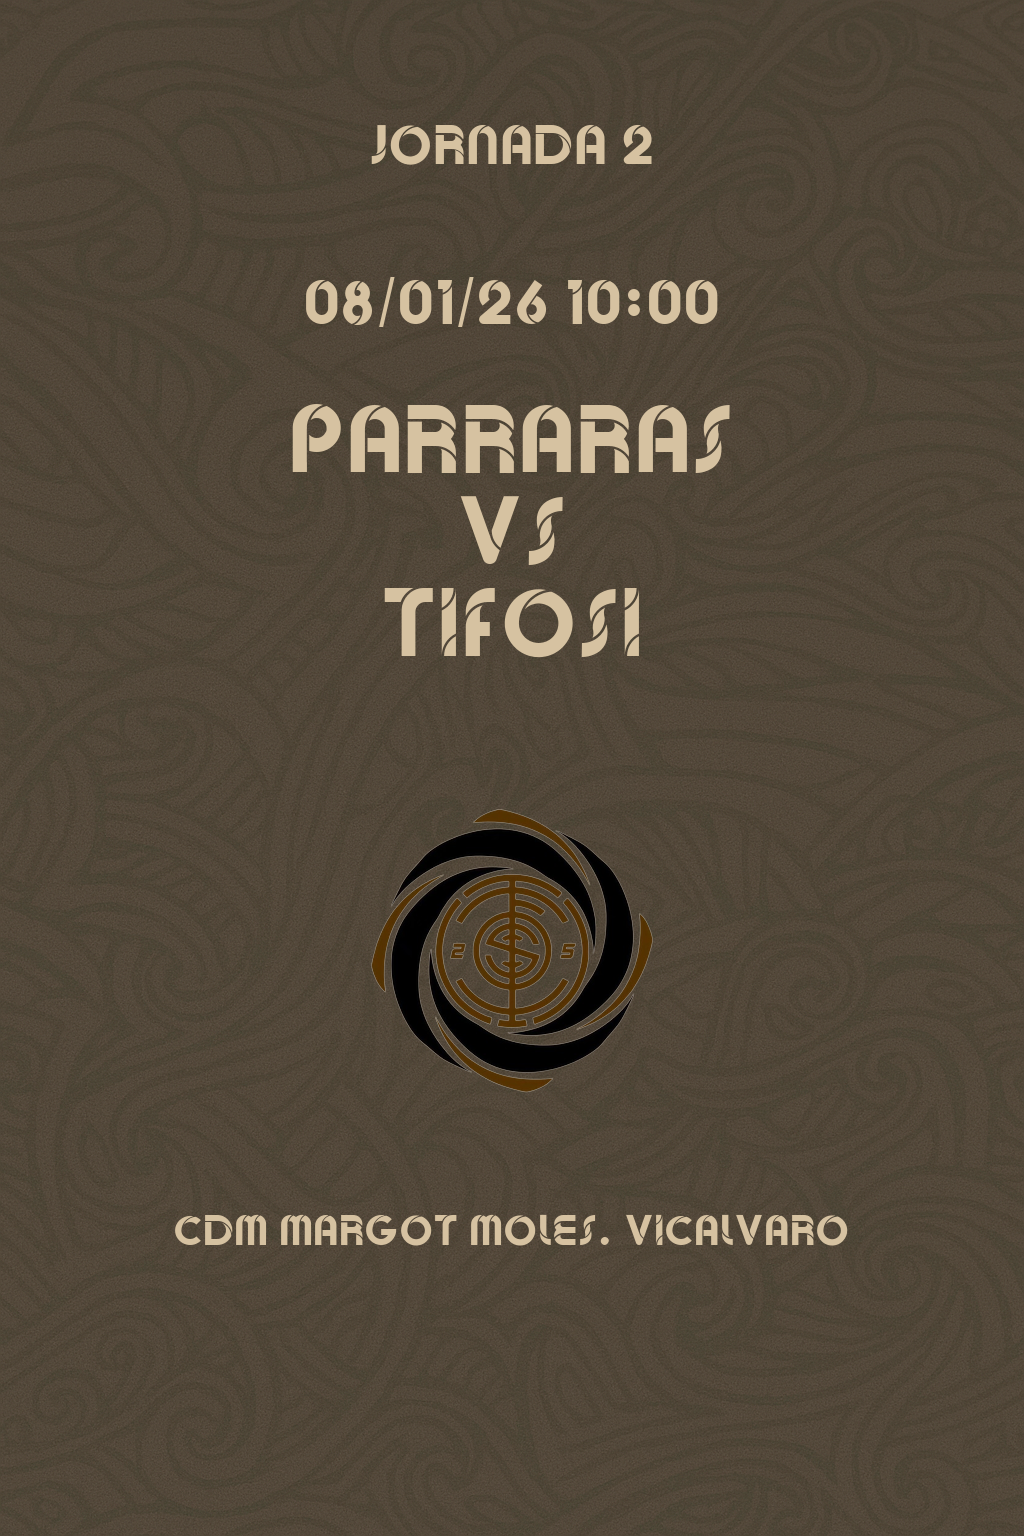
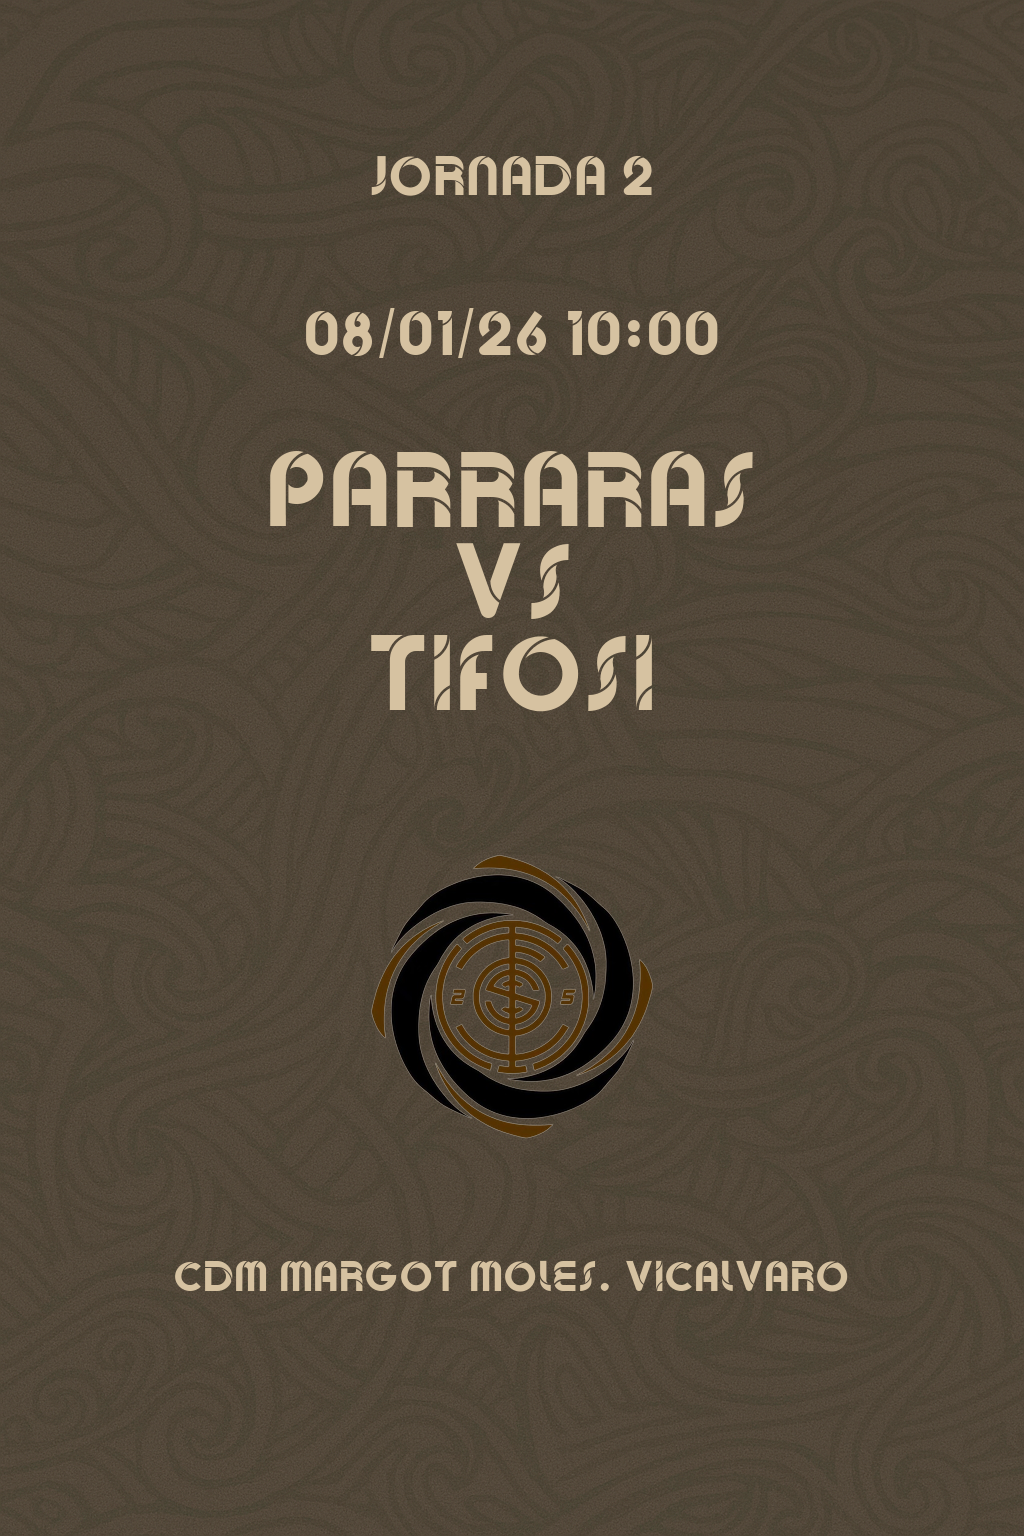
update web

diff --git a/image_generator.py b/image_generator.py
@@ -318,18 +318,18 @@ def generar_proximo(data):
     # =========================
     # POSICIONES
     # =========================
-    y_jornada = int(alto * 0.08)
-    y_fecha = int(alto * 0.18)
-    y_equipos = int(alto * 0.32)
-    y_escudo = int(alto * 0.52)
-    y_ubicacion = int(alto * 0.80)
+    y_jornada = int(alto * 0.10)
+    y_fecha = int(alto * 0.20)
+    y_equipos = int(alto * 0.35)
+    y_escudo = int(alto * 0.55)
+    y_ubicacion = int(alto * 0.83)
 
     # =========================
     # FUENTES
     # =========================
     font_jornada = ImageFont.truetype("fonts/Bauman-Regular.ttf", int(ancho * 0.055))
     font_fecha = ImageFont.truetype("fonts/Bauman-Regular.ttf", int(ancho * 0.062))
-    font_equipo = ImageFont.truetype("fonts/Bauman-Regular.ttf", int(ancho * 0.095))
+    font_equipo = ImageFont.truetype("fonts/Bauman-Regular.ttf", int(ancho * 0.105))
     font_ubicacion = ImageFont.truetype("fonts/Bauman-Regular.ttf", int(ancho * 0.042))
 
     # =========================
